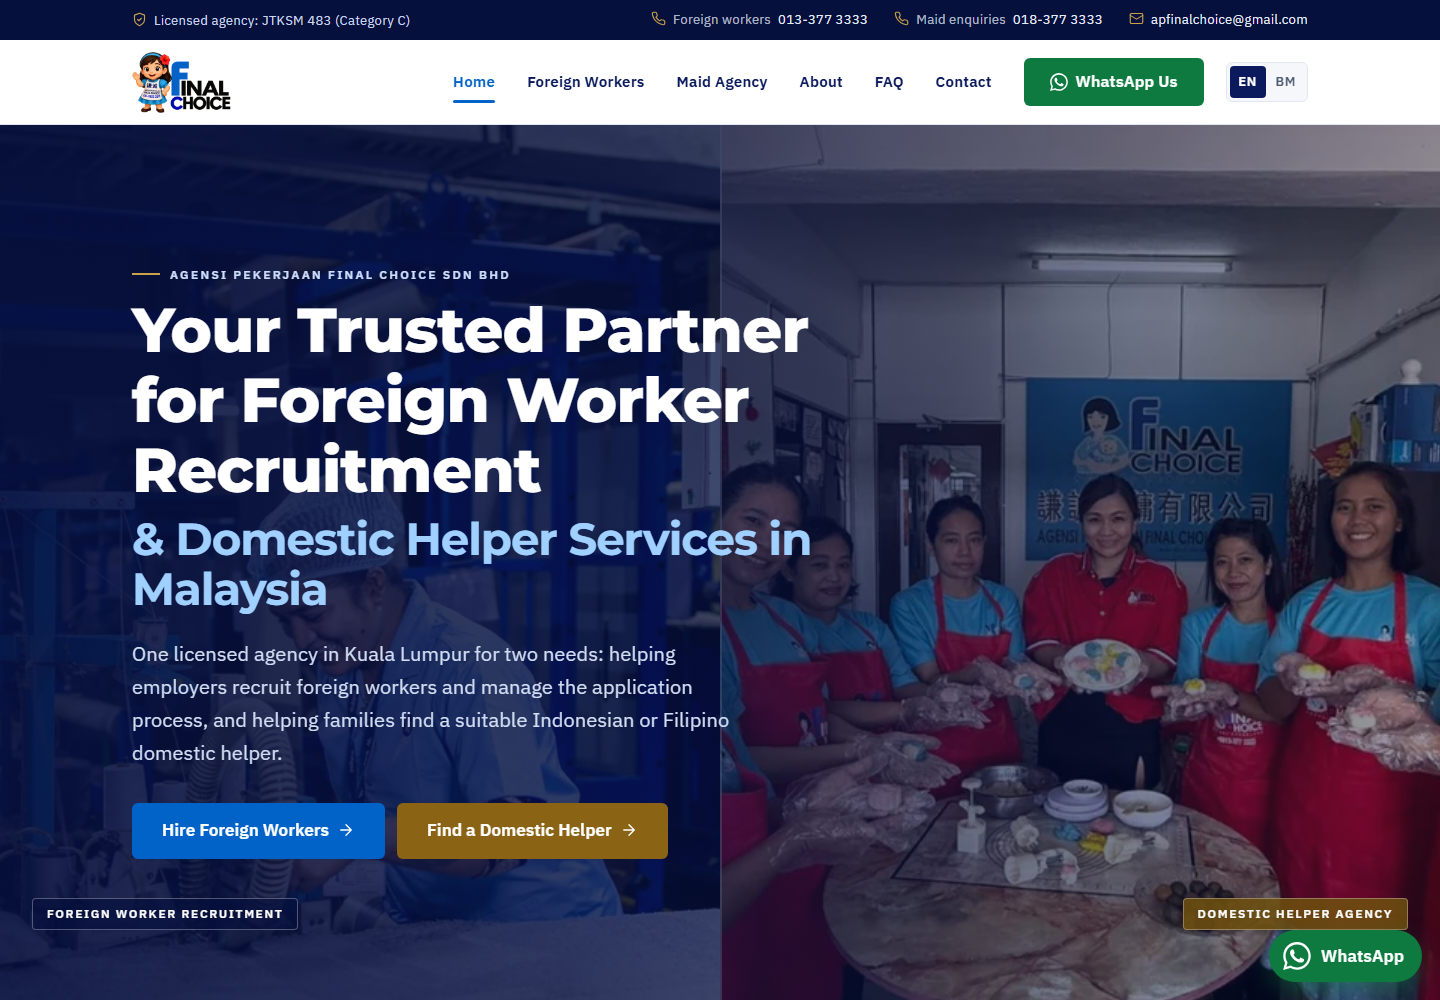
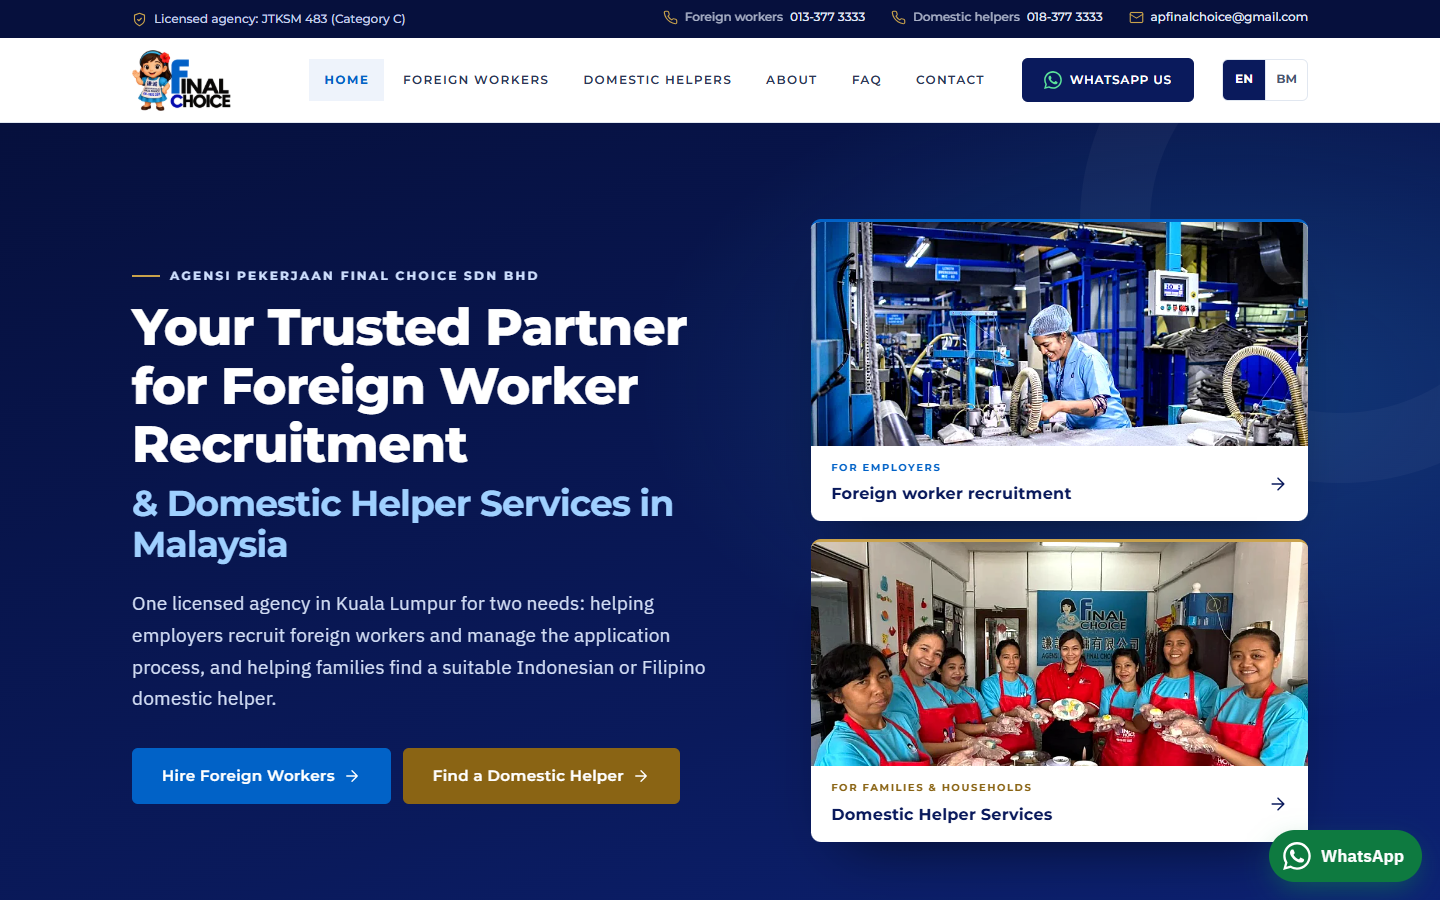
GUI refinement: Domestic Helper wording, clean Montserrat navigation, two equal service cards, enhanced photography

diff --git a/src/styles/site.css b/src/styles/site.css
@@ -320,55 +320,98 @@ img { border-radius: 0; }
 
 
 /* =====================================================================
-   Navigation redesign: Manrope UI font, calm weights, refined states
+   Header and navigation: quiet, corporate, no decorative underlines
+   UI font = Montserrat (same family as headings) for nav, buttons, labels
    ===================================================================== */
-:root { --font-ui: 'Manrope', 'IBM Plex Sans', system-ui, sans-serif; }
-.btn, .topstrip, .eyebrow, .lang-switch, .nav-toggle, .enq__tab, .cred__item span, .proc__pill, .svc__badge { font-family: var(--font-ui); }
-.topstrip { font-size: .8rem; font-weight: 500; letter-spacing: .01em; }
+:root { --font-ui: 'Montserrat', 'IBM Plex Sans', system-ui, sans-serif; --tint: #eef3fb; }
+.btn, .eyebrow, .lang-switch, .enq__tab, .cred__item span, .proc__pill, .svc-card__badge, .hero-card small { font-family: var(--font-ui); }
+.btn { font-size: .9rem; font-weight: 600; letter-spacing: .02em; }
+.btn--lg { font-size: .95rem; }
+.topstrip { font-family: var(--font-ui); font-size: .72rem; font-weight: 500; letter-spacing: .02em; }
+.topstrip__inner { min-height: 38px; }
 .site-header { background: #fff; border-bottom: 1px solid var(--border); }
-.site-header__inner { height: 88px; gap: 28px; }
-.site-header.is-stuck .site-header__inner { height: 72px; }
-.brand img { height: 66px; }
-.site-header.is-stuck .brand img { height: 54px; }
-.main-nav { margin-left: auto; gap: 26px; }
-.main-nav ul { gap: 2px; }
-.main-nav ul a { font-family: var(--font-ui); font-size: .93rem; font-weight: 600; letter-spacing: .015em; color: #26314f; padding: 12px 16px; transition: color .25s; }
-.main-nav ul a::after { left: 50%; right: auto; width: 0; height: 2px; bottom: 6px; border-radius: 2px; background: var(--gold); transform: translateX(-50%); transform-origin: center; transition: width .3s var(--ease); }
-.main-nav ul a:hover { color: var(--navy); }
-.main-nav ul a:hover::after { width: calc(100% - 32px); }
-.main-nav ul a[aria-current='page'] { color: var(--navy); font-weight: 700; }
-.main-nav ul a[aria-current='page']::after { width: 28px; background: var(--blue); }
-.main-nav ul a[aria-current='page']:hover::after { width: calc(100% - 32px); }
-.main-nav__cta.btn--wa { background: var(--navy); color: #fff; border-radius: var(--radius-sm); min-height: 46px; padding: 10px 20px; font-size: .9rem; letter-spacing: .02em; }
+.site-header__inner { height: 84px; gap: 28px; }
+.site-header.is-stuck .site-header__inner { height: 70px; }
+.brand img { height: 62px; }
+.site-header.is-stuck .brand img { height: 52px; }
+.main-nav { margin-left: auto; gap: 22px; }
+.main-nav ul { gap: 4px; }
+.main-nav ul a { font-family: var(--font-ui); font-size: .78rem; font-weight: 600; letter-spacing: .08em; text-transform: uppercase; color: #2b3656; padding: 11px 15px; border-radius: 6px; transition: background-color .2s, color .2s; }
+.main-nav ul a::after { content: none; display: none; }
+.main-nav ul a:hover { background: var(--tint); color: var(--navy); }
+.main-nav ul a[aria-current='page'] { background: var(--tint); color: var(--blue); box-shadow: none; font-weight: 700; }
+.main-nav__cta.btn--wa { background: var(--navy); color: #fff; min-height: 44px; padding: 10px 20px; font-size: .74rem; letter-spacing: .08em; text-transform: uppercase; border-radius: 6px; }
 .main-nav__cta.btn--wa .icon { color: #5be39a; }
-.main-nav__cta.btn--wa:hover { background: var(--blue); }
-.lang-switch { background: transparent; border: 0; padding: 0; gap: 0; font-size: .8rem; letter-spacing: .08em; }
-.lang-switch__item { min-width: 38px; min-height: 36px; border-radius: 0; color: #5a6682; font-weight: 700; position: relative; }
+.main-nav__cta.btn--wa:hover { background: var(--blue); transform: none; box-shadow: none; }
+.lang-switch { display: inline-flex; padding: 0; gap: 0; border: 1px solid var(--border); border-radius: 6px; overflow: hidden; background: #fff; font-size: .72rem; letter-spacing: .08em; }
+.lang-switch__item { min-width: 42px; min-height: 40px; border-radius: 0; font-weight: 700; color: #4a5672; transition: background-color .2s, color .2s; }
 .lang-switch__item + .lang-switch__item { border-left: 1px solid var(--border); }
-.lang-switch__item.is-current { background: transparent; color: var(--navy); }
-.lang-switch__item.is-current::after { content: ''; position: absolute; left: 10px; right: 10px; bottom: 2px; height: 2px; background: var(--gold); }
-a.lang-switch__item:hover { background: transparent; color: var(--blue); }
+.lang-switch__item.is-current { background: var(--navy); color: #fff; }
+.lang-switch__item.is-current::after { content: none; }
+a.lang-switch__item:hover { background: var(--tint); color: var(--navy); }
+.nav-toggle { border: 1px solid var(--border); background: #fff; color: var(--navy); border-radius: 6px; }
+.nav-toggle:hover { background: var(--tint); }
 @media (max-width: 1240px) {
-  .site-header__inner { height: 76px; gap: 12px; }
-  .brand img { height: 56px; }
-  .main-nav { padding-top: 8px; gap: 0; }
-  .main-nav ul a { font-size: 1.15rem; font-weight: 600; padding: 20px 6px; color: var(--navy); display: flex; justify-content: space-between; align-items: center; }
-  .main-nav ul a::after { display: block; position: static; transform: none; width: 8px; height: 8px; border: 0; border-top: 2px solid #98a3bd; border-right: 2px solid #98a3bd; background: none; border-radius: 0; rotate: 45deg; transition: translate .25s var(--ease); }
-  .main-nav ul a:hover::after, .main-nav ul a[aria-current='page']::after { width: 8px; background: none; translate: 4px 0; }
-  .main-nav ul a[aria-current='page'] { box-shadow: none; padding-left: 6px; color: var(--blue); }
-  .main-nav ul a[aria-current='page']::after { border-color: var(--blue); }
-  .main-nav__foot { margin-top: 26px; }
-  .main-nav__foot .btn--wa { background: var(--navy); }
-  .main-nav__foot .btn--wa .icon { color: #5be39a; }
+  .site-header__inner { height: 74px; gap: 12px; }
+  .brand img { height: 54px; }
   .lang-switch { margin-left: auto; }
+  .main-nav { position: absolute; inset: auto; left: 0; right: 0; top: 100%; height: auto; max-height: calc(100dvh - 74px); overflow-y: auto; background: #fff; border-top: 1px solid var(--border); box-shadow: 0 26px 40px -26px rgba(6, 16, 61, .35); padding: 8px var(--gutter) 28px; gap: 0; flex-direction: column; align-items: stretch; }
+  .main-nav ul { flex-direction: column; gap: 0; }
+  .main-nav ul a { display: flex; justify-content: space-between; align-items: center; font-size: .92rem; letter-spacing: .06em; padding: 19px 10px; border-radius: 0; border-bottom: 1px solid var(--border); color: var(--navy); background: transparent; }
+  .main-nav ul a::after { content: ''; display: block; width: 8px; height: 8px; border-top: 2px solid #9aa5bd; border-right: 2px solid #9aa5bd; rotate: 45deg; position: static; background: none; transition: translate .2s; }
+  .main-nav ul a:hover { background: var(--tint); }
+  .main-nav ul a:hover::after { translate: 4px 0; }
+  .main-nav ul a[aria-current='page'] { background: var(--tint); color: var(--blue); box-shadow: inset 3px 0 0 var(--blue); }
+  .main-nav ul a[aria-current='page']::after { border-color: var(--blue); }
+  .main-nav__cta { display: none; }
+  .main-nav__foot { display: grid; gap: 10px; margin-top: 24px; }
+  .main-nav__foot .btn--wa { background: var(--navy); font-size: .82rem; }
+  .main-nav__foot .btn--wa .icon { color: #5be39a; }
 }
-@media (max-width: 760px) { .site-header.is-stuck .site-header__inner { height: 64px; } }
-.nav-toggle { border: 1px solid var(--border); background: #fff; color: var(--navy); }
-.nav-toggle:hover { border-color: var(--navy); }
+@media (max-width: 760px) { .site-header.is-stuck .site-header__inner { height: 64px; } .main-nav { max-height: calc(100dvh - 64px); } }
 
-/* Mobile menu panel hangs directly under the sticky header, whatever the contact strip is doing */
-@media (max-width: 1240px) {
-  .main-nav { position: absolute; inset: auto; left: 0; right: 0; top: 100%; height: auto; max-height: calc(100dvh - 76px); overflow-y: auto; border-top: 1px solid var(--border); box-shadow: 0 24px 40px -24px rgba(6, 16, 61, .35); padding-bottom: 28px; }
-}
+/* =====================================================================
+   Hero cards (two equal service panels) and the equal-weight service grid
+   ===================================================================== */
+.hero-pro__visual { padding: 0; display: grid; gap: 18px; }
+.hero-pro__visual::before { display: none; }
+.hero-card { display: block; background: #fff; border-radius: var(--radius); overflow: hidden; text-decoration: none; color: var(--navy); box-shadow: 0 30px 60px -34px rgba(0, 0, 0, .7); transition: transform .35s var(--ease), box-shadow .35s; border-top: 3px solid var(--blue); }
+.hero-card--maid { border-top-color: var(--gold); }
+.hero-card:hover { transform: translateY(-3px); box-shadow: 0 36px 70px -34px rgba(0, 0, 0, .8); color: var(--navy); }
+.hero-card__img { display: block; overflow: hidden; }
+.hero-card__img img { width: 100%; height: auto; aspect-ratio: 16 / 7.2; object-fit: cover; transition: transform .8s var(--ease); }
+.hero-card--maid .hero-card__img img { object-position: 50% 38%; }
+.hero-card:hover .hero-card__img img { transform: scale(1.04); }
+.hero-card__bar { display: flex; justify-content: space-between; align-items: center; gap: 12px; padding: 14px 20px; }
+.hero-card__bar small { display: block; font-size: .64rem; font-weight: 700; letter-spacing: .14em; text-transform: uppercase; color: var(--blue); margin-bottom: 3px; }
+.hero-card--maid small { color: var(--accent); }
+.hero-card__bar strong { font-family: var(--font-head); font-size: 1.02rem; font-weight: 700; }
+.hero-card__bar .icon { color: var(--navy); transition: transform .25s var(--ease); }
+.hero-card:hover .hero-card__bar .icon { transform: translateX(4px); }
+@media (max-width: 900px) { .hero-pro__visual { padding: 0; max-width: 620px; } .hero-pro__visual::before { display: none; } }
+.hero-pro__inner { padding-block: clamp(56px, 7vw, 96px) clamp(120px, 11vw, 160px); align-items: center; }
 
-@media (max-width: 1240px) { .main-nav ul a[aria-current='page']::after, .main-nav ul a[aria-current='page']:hover::after { width: 8px; height: 8px; background: none; bottom: auto; left: auto; border-radius: 0; } }
+.svc-grid { display: grid; grid-template-columns: 1fr 1fr; gap: clamp(20px, 2.5vw, 32px); }
+.svc-card { display: flex; flex-direction: column; background: #fff; border: 1px solid var(--border); border-radius: var(--radius); overflow: hidden; box-shadow: var(--shadow); border-top: 3px solid var(--blue); transition: transform .35s var(--ease), box-shadow .35s; }
+.svc-card--maid { border-top-color: var(--gold); }
+.svc-card:hover { transform: translateY(-4px); box-shadow: var(--shadow-lg); }
+.svc-card__media { position: relative; overflow: hidden; }
+.svc-card__media img { width: 100%; height: auto; aspect-ratio: 16 / 9; object-fit: cover; transition: transform .9s var(--ease); }
+.svc-card--maid .svc-card__media img { object-position: 50% 40%; }
+.svc-card:hover .svc-card__media img { transform: scale(1.04); }
+.svc-card__badge { position: absolute; left: 16px; top: 16px; background: #fff; color: var(--navy); font-size: .64rem; font-weight: 700; letter-spacing: .12em; text-transform: uppercase; padding: 8px 12px; border-radius: 4px; box-shadow: var(--shadow-sm); }
+.svc-card--maid .svc-card__badge { color: var(--accent-dark); }
+.svc-card__body { padding: clamp(24px, 3vw, 38px); display: flex; flex-direction: column; flex: 1; }
+.svc-card__body h3 { font-size: clamp(1.3rem, 1.1rem + .8vw, 1.7rem); margin-bottom: 12px; }
+.svc-card__body > p { color: var(--muted); }
+.svc-card .svc-list { margin: 18px 0 26px; }
+.svc-card .btn-row { margin-top: auto; }
+.svc-card--maid .svc-list .icon { color: var(--accent); }
+@media (max-width: 900px) { .svc-grid { grid-template-columns: 1fr; } }
+
+/* Photos: consistent soft frame on the content images */
+.about-grid__media img, .gal figure, .page-hero__photo { box-shadow: var(--shadow); }
+.about-grid__media::before { border-color: rgba(201, 162, 75, .7); }
+
+.about-grid__media::before { display: none; }
+.about-grid__media img { aspect-ratio: 4 / 3; }

diff --git a/src/content/maid.ts b/src/content/maid.ts
@@ -35,10 +35,10 @@ export const maidPages: PageSet = {
   // ---------------------------------------------------------------------------------------------
   maid: {
     en: {
-      title: 'Maid Agency Malaysia | Indonesian & Filipino Maids | Final Choice',
-      description: 'Licensed maid agency (JTKSM 483) in Kuala Lumpur helping Malaysian households hire Indonesian and Filipino domestic helpers: biodata, interviews, documents and renewals.',
-      h1: 'Maid Agency in Malaysia: Indonesian and Filipino Domestic Helpers',
-      eyebrow: 'For families and households',
+      title: 'Domestic Helper Services & Maid Agency Malaysia | Final Choice',
+      description: 'Licensed agency (JTKSM 483) in Kuala Lumpur helping Malaysian families hire Indonesian and Filipino domestic helpers: biodata, interviews, documents and renewals.',
+      h1: 'Domestic Helper Services in Malaysia: Indonesian and Filipino Maids',
+      eyebrow: 'For Families & Households',
       lead: 'Final Choice helps Malaysian families find a suitable Indonesian or Filipino domestic helper and guides you through every step: biodata, interview, documents, arrival and after-placement support.',
       image: hero,
       wa: 'Hello Final Choice, I would like to enquire about hiring a domestic helper.',
@@ -69,9 +69,9 @@ export const maidPages: PageSet = {
       form: true,
     },
     bm: {
-      title: 'Agensi Pembantu Rumah Malaysia | Indonesia & Filipina',
-      description: 'Agensi pembantu rumah berlesen (JTKSM 483) di Kuala Lumpur: pembantu rumah Indonesia dan Filipina, biodata, temu duga, dokumen dan pembaharuan.',
-      h1: 'Agensi Pembantu Rumah di Malaysia: Pembantu Rumah Indonesia dan Filipina',
+      title: 'Perkhidmatan Pembantu Rumah Malaysia | Indonesia & Filipina',
+      description: 'Agensi berlesen (JTKSM 483) di Kuala Lumpur: pembantu rumah Indonesia dan Filipina, biodata, temu duga, dokumen dan pembaharuan.',
+      h1: 'Perkhidmatan Pembantu Rumah di Malaysia: Indonesia dan Filipina',
       eyebrow: 'Untuk keluarga dan isi rumah',
       lead: 'Final Choice membantu keluarga Malaysia mencari pembantu rumah Indonesia atau Filipina yang sesuai dan membimbing anda pada setiap langkah: biodata, temu duga, dokumen, ketibaan dan sokongan selepas penempatan.',
       image: hero,
@@ -197,7 +197,7 @@ export const maidPages: PageSet = {
       lead: 'A biodata sheet summarises a helper’s background, languages, experience and skills. Tell us what your household needs and we will share suitable biodata.',
       wa: 'Hello Final Choice, I would like to request available maid biodata. My household needs: ',
       blocks: [
-        { h2: 'See existing biodata', paras: ['Our maid biodata directory is maintained on our existing maid agency website: use the View Maid Biodata button above to browse the profiles currently published there. Or tell us what you need and we will send a short list that fits.'], },
+        { h2: 'See existing biodata', paras: ['Our maid biodata directory is maintained on our existing maid website: use the View Maid Biodata button above to browse the profiles currently published there. Or tell us what you need and we will send a short list that fits.'], },
         { h2: 'What a biodata sheet usually shows', bullets: ['Age, nationality and marital status', 'Languages spoken', 'Work experience and the countries worked in', 'Declared skills such as childcare, elderly care, cooking and housekeeping', 'Our interview assessment notes'], note: 'Biodata lists declared skills. Confirm what matters most at the interview.' },
         { h2: 'How to request', steps: [
           { t: 'Tell us your needs', d: 'Who needs care, the main duties, nationality preference and any religious or dietary needs.' },

diff --git a/src/content/main.ts b/src/content/main.ts
@@ -46,7 +46,7 @@ export const mainPages: PageSet = {
   contact: {
     en: {
       title: 'Contact Final Choice | Kuala Lumpur Employment Agency',
-      description: 'Contact Final Choice in Taman Mutiara Barat, Kuala Lumpur: WhatsApp, phone, email, office address and opening hours for foreign worker and maid enquiries.',
+      description: 'Contact Final Choice in Taman Mutiara Barat, Kuala Lumpur: WhatsApp, phone, email, office address and opening hours for foreign worker and domestic helper enquiries.',
       h1: 'Contact Final Choice',
       eyebrow: 'Get in touch',
       lead: 'Choose the line that fits your enquiry. Our consultant will reply during office hours.',
@@ -70,7 +70,7 @@ export const mainPages: PageSet = {
 
   faq: {
     en: {
-      title: 'FAQ | Foreign Workers and Maid Agency Malaysia | Final Choice',
+      title: 'FAQ | Foreign Workers and Domestic Helpers Malaysia | Final Choice',
       description: 'Answers to common questions about foreign worker applications, Section 60K, FWCMS, quotas and hiring Indonesian or Filipino domestic helpers in Malaysia.',
       h1: 'Frequently Asked Questions',
       eyebrow: 'FAQ',

diff --git a/src/i18n/ui.ts b/src/i18n/ui.ts
@@ -2,9 +2,9 @@
 import type { Lang } from './routes';
 
 const en = {
-  nav: { skip: 'Skip to main content', main: 'Main menu', menu: 'Menu', language: 'Language', switchTo: 'Switch language', home: 'Home', fw: 'Foreign Workers', maid: 'Maid Agency', about: 'About', faq: 'FAQ', contact: 'Contact' },
+  nav: { skip: 'Skip to main content', main: 'Main menu', menu: 'Menu', language: 'Language', switchTo: 'Switch language', home: 'Home', fw: 'Foreign Workers', maid: 'Domestic Helpers', about: 'About', faq: 'FAQ', contact: 'Contact' },
   crumb: { home: 'Home', label: 'Breadcrumb' },
-  strip: { licensed: 'Licensed agency', fw: 'Foreign workers', maid: 'Maid enquiries' },
+  strip: { licensed: 'Licensed agency', fw: 'Foreign workers', maid: 'Domestic helpers' },
   btn: {
     hireFw: 'Hire Foreign Workers', findMaid: 'Find a Domestic Helper', whatsapp: 'WhatsApp', whatsappUs: 'WhatsApp Us', call: 'Call',
     checkReq: 'Check Your Company Requirements', enquireFw: 'Enquire About Foreign Workers', speakConsultant: 'Speak to Our Consultant',

diff --git a/src/content/fw.ts b/src/content/fw.ts
@@ -38,7 +38,7 @@ export const fwPages: PageSet = {
       title: 'Foreign Worker Recruitment Malaysia | Final Choice',
       description: 'Licensed agency (JTKSM 483) helping Malaysian employers with foreign worker recruitment, quota applications, Section 60K, FWCMS / FWe Approval and documents.',
       h1: 'Foreign Worker Recruitment and Application Services in Malaysia',
-      eyebrow: 'For employers and HR teams',
+      eyebrow: 'For Employers',
       lead: 'Final Choice helps Malaysian employers recruit foreign workers and manage the application process: eligibility and document checks, quota applications, Section 60K, FWCMS / FWe Approval and follow-up, so your team knows what is needed at each stage.',
       image: img,
       wa: 'Hello Final Choice, I would like to check the requirements for foreign workers for my company.',

diff --git a/src/i18n/labels.ts b/src/i18n/labels.ts
@@ -14,7 +14,7 @@ export const SHORT: Record<PageKey, { en: string; bm: string }> = {
   fwServices: { en: 'Services sector', bm: 'Perkhidmatan' },
   fwPlantation: { en: 'Plantation', bm: 'Perladangan' },
   fwAgriculture: { en: 'Agriculture', bm: 'Pertanian' },
-  maid: { en: 'Maid agency Malaysia', bm: 'Agensi pembantu rumah' },
+  maid: { en: 'Domestic helper services', bm: 'Perkhidmatan pembantu rumah' },
   maidIndonesian: { en: 'Indonesian maid', bm: 'Pembantu Indonesia' },
   maidFilipino: { en: 'Filipino maid', bm: 'Pembantu Filipina' },
   maidBiodata: { en: 'Maid biodata', bm: 'Biodata pembantu' },
